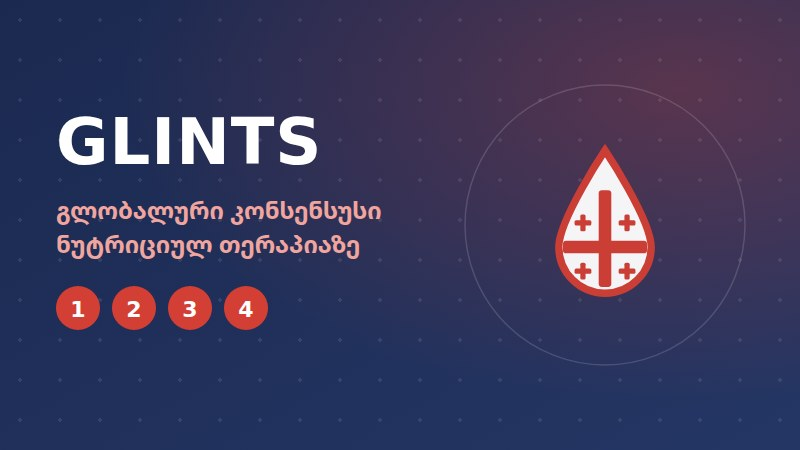
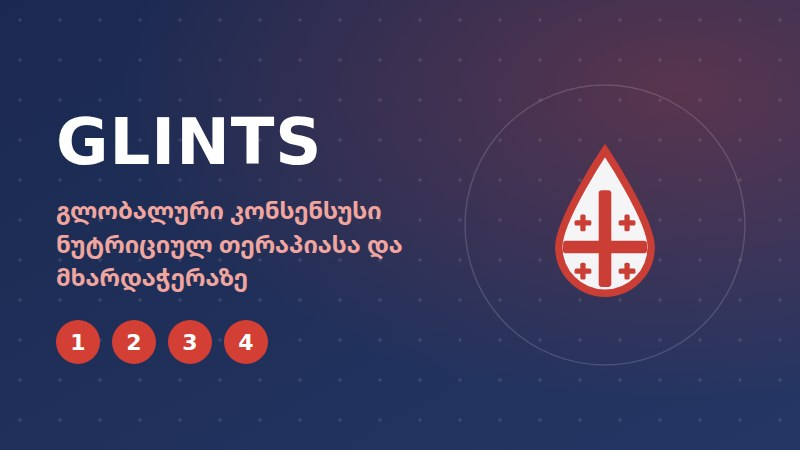
Add files via upload

Changed region(s): [[0.0625, 0.5911, 0.3438, 0.8089], [0.4062, 0.5289, 0.5, 0.5911]]

diff --git a/statiebi.html b/statiebi.html
@@ -90,7 +90,7 @@
 </footer>
 
 <script type="application/json" id="artSeed">
-{"items": [{"date": "2026-09-10", "title": "GSPEN ევროპის კლინიკური კვების საზოგადოების (ESPEN) ბლოკწევრი გახდა", "author": "GSPEN", "summary": "საქართველოს საზოგადოება ოფიციალურად შეუერთდა ESPEN-ს — ჩვენს წევრებს ევროპული საზოგადოების სრული წევრობა შეღავათიანი ტარიფით შეეძლებათ.", "cover": "assets/article-espen.jpg", "body": "მოხარული ვართ გაცნობოთ, რომ ოფიციალურად გაფორმდა ბლოკწევრობის შეთანხმება საქართველოს პარენტერალური, ენტერალური კვებისა და მეტაბოლიზმის საზოგადოებასა (GSPEN) და ევროპის კლინიკური ნუტრიციოლოგიისა და მეტაბოლიზმის საზოგადოებას (ESPEN) შორის.\n\n## რას ნიშნავს ეს?\n\nGSPEN-ის ESPEN-ში გაწევრიანება ქართული სამედიცინო საზოგადოებისთვის უმნიშვნელოვანესი და ისტორიული ნაბიჯია, რადგან დღეს საქართველოში კლინიკური ნუტრიციოლოგია, როგორც დამოუკიდებელი სამედიცინო სფერო, პრაქტიკულად არ არსებობს. წლების განმავლობაში ეს სასიცოცხლოდ მნიშვნელოვანი მიმართულება ქვეყანაში სრულიად აუთვისებელი რჩებოდა და მხოლოდ ახლა დგამს პირველ ნაბიჯებს.\n\nსწორედ ამიტომ ESPEN-ის წევრობა გვაძლევს უნიკალურ შანსს, რომ შევავსოთ არსებული სიცარიელე, მრავალწლიანი ევროპული საერთაშორისო გამოცდილება გადმოვიტანოთ ქართულ კლინიკურ რეალობაში და საქართველოში ამ სფეროს განვითარებას მყარი საფუძველი ჩავუყაროთ.\n\n## რას ნიშნავს ESPEN-ის ბლოკწევრობა?\n\nბლოკწევრობა ESPEN-ის სპეციალური სტატუსია იმ ეროვნული ასოციაციებისთვის, რომლებთანაც ევროპულ საზოგადოებას პირდაპირი შეთანხმება აქვს გაფორმებული. ამ სტატუსის წყალობით, GSPEN-ის თითოეულ წევრს შეუძლია, გახდეს ESPEN-ის სრულუფლებიანი წევრი შეღავათიანი ტარიფით.\n\nრეგისტრაციისთვის იხილეთ [შესაბამისი ბმული](wevroba.html).\n\n## რას იღებს GSPEN-ისა და ESPEN-ის წევრი?\n\n- **საგანმანათლებლო პლატფორმებზე წვდომა:** შემცირებული ტარიფი LLL (Life Long Learning) სერტიფიცირებულ კურსებზე და შეუზღუდავი წვდომა სასწავლო პლატფორმაზე [lllnutrition.com](https://lllnutrition.com) — რაც ESPEN-ის დიპლომის მოპოვების წინაპირობაა.\n- **უახლესი სამეცნიერო ლიტერატურა:** უფასო ონლაინ წვდომა ევროპის წამყვან ჟურნალებზე — Clinical Nutrition და Clinical Nutrition ESPEN.\n- **საერთაშორისო კონგრესები:** შეღავათიანი რეგისტრაცია და მნიშვნელოვანი ფასდაკლება ESPEN-ის ყოველწლიურ კონგრესებზე დასასწრებად.\n- **გრანტები და კვლევები:** ESPEN-ის კვლევით, სასწავლო და სამოგზაურო გრანტებზე განაცხადის შეტანის უფლება.\n- **ექსკლუზიური მასალები:** წვდომა ESPEN-ის ვებინარებზე, გასული კონგრესების ჩანაწერებსა და საზოგადოების სიახლეების ცნობის ფურცელზე.\n- **nutritionDay-ს საერთაშორისო პროექტში ჩართულობა:** შესაძლებლობა, მონაწილეობა მიიღოთ კლინიკური კვების უდიდეს გლობალურ აუდიტში, გამოიყენოთ ქართულ ენაზე უკვე ადაპტირებული კითხვარები და დააკავშიროთ თქვენი კლინიკის მონაცემები ერთიან საერთაშორისო ბაზასთან პაციენტთა გამოსავლების გასაუმჯობესებლად. მეტი ინფორმაციისთვის [იხილეთ ბმული](proeqtebi.html?p=0).\n- **პუბლიკაციების მხარდაჭერა:** ფასდაკლება სამეცნიერო სტატიის გამოქვეყნებაზე ღია წვდომის ჟურნალში Clinical Nutrition Open Science.\n\n## რას შეცვლის ეს ადგილობრივ დონეზე?\n\nჩვენი მთავარი მიზანი ევროპული გამოცდილების ქართულ რეალობად ქცევა და კლინიკური ნუტრიციოლოგიის მიმართულებით ქვეყანაში ერთიანი, მაღალი სტანდარტის დანერგვაა. ამის მისაღწევად GSPEN-ის სახელით დაგეგმილია შემდეგი ინიციატივები:\n\n- **ეროვნული პროტოკოლების შემუშავება:** დავიწყებთ უახლესი საერთაშორისო გაიდლაინების სიღრმისეულ დამუშავებას და საქართველოს კლინიკურ რეალობაზე მორგებას.\n- **მულტიდისციპლინური განათლება (ექიმები და ექთნები):** ვინაიდან პაციენტის ნუტრიციული მართვა გუნდურ მუშაობას მოითხოვს, განვაგრძობთ ადგილობრივი ვებინარების, პრაქტიკული ვორქშოფების და სამუშაო შეხვედრების ორგანიზებას როგორც მოქმედი ექიმებისთვის, ისე ექთნებისთვის, რომელთა როლიც უმნიშვნელოვანესია კვების პროტოკოლების უშუალო აღსრულების პროცესში.\n- **მომავალი თაობის განვითარება:** განსაკუთრებული ყურადღება დაეთმობა სამედიცინო ფაკულტეტის სტუდენტებთან მუშაობას. მათთვის დაიგეგმება სპეციალური საგანმანათლებლო შეხვედრები, რათა მომავალმა კოლეგებმა საუნივერსიტეტო ეტაპიდანვე გაითავისონ კლინიკური ნუტრიციოლოგიის ფუნდამენტური პრინციპები და დაინტერესდნენ ამ მნიშვნელოვანი სფეროთი.\n\n## როგორ გავხდეთ წევრი?\n\nშეღავათიანი ტარიფით ESPEN-ის წევრობა ექსკლუზიურად GSPEN-ის წევრებისთვისაა ხელმისაწვდომი. ერთად ჩავუყაროთ საფუძველი კლინიკური ნუტრიციოლოგიის განვითარებას საქართველოში!\n\nდაინტერესების შემთხვევაში, მოგვწერეთ ელექტრონულ ფოსტაზე: [**pensocietygspen@gmail.com**](mailto:pensocietygspen@gmail.com). ჩვენ მოგაწვდით დეტალურ ინფორმაციას გაწევრიანების ნაბიჯებსა და გადახდის წესზე."}, {"date": "2026-09-11", "title": "როდის უნდა დაიწყოს ნუტრიციული თერაპია? — GLINTS: პირველი გლობალური კონსენსუსი", "author": "სალომე გოგლიძე", "summary": "მსოფლიოს კლინიკური კვების საზოგადოებების პირველი ერთიანი პასუხი კითხვაზე — როდის დავიწყოთ კვებითი ჩარევა.", "cover": "assets/article-glints.jpg", "body": "კლინიკურ პრაქტიკაში ერთ-ერთი ყველაზე ხშირი და, პარადოქსულად, ყველაზე ბუნდოვანი კითხვა ასე ჟღერს: როდის უნდა დავიწყოთ კვებითი ჩარევა? ამ კითხვას ახლა პირველად უპასუხა გლობალურმა კონსენსუსმა — GLINTS (Global Leadership Initiative on Indications to Nutritional Therapy and Support).\n\nინიციატივა 2025 წლის 14 სექტემბერს, პრაღაში, ESPEN-ის კონგრესზე დაიწყო და მასში მსოფლიოს ყველა წამყვანი კლინიკური კვების საზოგადოება მონაწილეობდა: ESPEN (ევროპა), ASPEN (ამერიკა), AuSPEN (ავსტრალაზია), FELANPE (ლათინური ამერიკა), PENSA (აზია) და SASPEN (სამხრეთ აფრიკა). 32 ექსპერტმა მოდიფიცირებული დელფის სამი რაუნდის შედეგად რვა დებულება შეაჯერა — თითოეულმა 85%-ზე მაღალ თანხმობას მიაღწია.\n\n## რატომ იყო ეს საჭირო\n\nჰოსპიტალიზებულ პაციენტებში მალნუტრიციის გავრცელება 35–50%-ს აღწევს და ყველაზე მაღალია ონკოლოგიურ და კრიტიკულ პაციენტებში. nutritionDay-ს გლობალური აუდიტის მონაცემებით (224 221 პაციენტი, 2006–2025), პაციენტების 44% კლინიკაში ყოფნის პერიოდში წონის კლებას აღნიშნავს, 51% კი შეფასების დღეს სრულ ულუფას ვერ ჭამს. შედეგები პირდაპირ აისახება გამოსავალზე: წონის კლება 30-დღიანი სიკვდილობის რისკს 1.69-ჯერ ზრდის, ულუფის მეოთხედზე ნაკლების მიღება — 1.4–3-ჯერ, დაბალი BMI — 1.5-ჯერ.\n\nამის მიუხედავად, კვებითი ჩარევა კლინიკებში ხშირად გვიან იწყება ან საერთოდ არ იწყება — ერთ-ერთი მიზეზი კი სწორედ ის იყო, რომ არ არსებობდა მკაფიო, საერთაშორისოდ შეჯერებული კრიტერიუმები. მნიშვნელოვანი კონტექსტია ისიც, რომ 2025 წელს ჯანმო-მ ICD-11-ში ზრდასრულთა არასრულფასოვანი კვების ცალკე დიაგნოსტიკური კოდი (5B72) დაამტკიცა, რომელიც [GLIM](glim.html)-ის კრიტერიუმებს ეყრდნობა და 2027 წლიდან ამოქმედდება.\n\n## ოთხი ძირითადი ჩვენება\n\nGLINTS-ის მიხედვით, ნუტრიციული თერაპია/მხარდაჭერა ნაჩვენებია ოთხ შემთხვევაში:\n\n1. **დადასტურებული მალნუტრიცია** — [GLIM](glim.html)-ის ან სხვა ვალიდური კრიტერიუმებით (SGA, PG-SGA, MNA) დასმული დიაგნოზი *(თანხმობა 96%)*;\n2. **მალნუტრიციის მაღალი რისკი** — თუ პოპულაციის რისკი უცნობია, გამოიყენება სკრინინგის ინსტრუმენტები; აშკარად მაღალი რისკის ჯგუფებში კი GLIM-ის კრიტერიუმები პირდაპირ, წინასწარი სკრინინგის გარეშეც შეიძლება იქნას გამოყენებული *(85%)*;\n3. **შემცირებული კვება** — ბოლო ერთ კვირაში ჩვეული რაციონის ნახევარი ან ნაკლები, ან ნებისმიერი ხარისხის შემცირება ორ კვირაზე მეტხანს — დაავადების, ანთებითი პასუხის ან მძიმე გასტროინტესტინური სიმპტომების (დისფაგია, გულისრევა, ღებინება, დიარეა) ფონზე *(93%)*;\n4. **ხუთ დღეზე მეტხანს ჭამის შეუძლებლობა** — მაშინაც კი, თუ პაციენტი მანამდე კარგად იკვებებოდა: უკვე 3–5 დღეში იწყება კუნთოვანი მასის კლინიკურად მნიშვნელოვანი კარგვა *(85%)*.\n\n## როდის გადავიდეთ ზონდით ან პარენტერალურ კვებაზე\n\n- **ენტერალური ზონდით კვება** ნაჩვენებია, როცა პერორალური მიღება სავარაუდო ენერგიისა და ნუტრიენტების საჭიროების 50%-ზე ნაკლებს ფარავს და მნიშვნელოვანი გაუმჯობესება მოსალოდნელი არ არის. პერორალური კვება ამ დროსაც მაქსიმალურად უნდა შენარჩუნდეს, სანამ ეს უსაფრთხოა *(87%)*.\n- **პარენტერალური კვება** ნაჩვენებია ნაწლავური უკმარისობის დროს — როცა ნაწლავის ფუნქცია იმ მინიმუმზე დაბალია, რომელიც მაკრონუტრიენტების, წყლისა და ელექტროლიტების ასათვისებლადაა საჭირო *(86%)*.\n- **დამატებითი პარენტერალური კვება** განიხილება, როცა პერორალური და ენტერალური კვება, ოპტიმიზაციის მიუხედავად, ენერგიისა და ცილის საკმარის მიწოდებას ვერ უზრუნველყოფს; დაწყების დრო ინდივიდუალურია და პაციენტის ნუტრიციულ სტატუსზე, რისკსა და დაავადების სიმძიმეზეა დამოკიდებული *(90%)*. მნიშვნელოვანია: ეს არ ნიშნავს რუტინულ ადრეულ დამატებით პარენტერალურ კვებას მწვავე ავადმყოფობის პირველივე დღეებში.\n\n## რას ნიშნავს ეს პრაქტიკაში\n\nპირველად გვაქვს გლობალურად შეჯერებული პასუხი კითხვაზე „როდის დავიწყოთ“. ეს კრიტერიუმები მარტივად დასამახსოვრებელია, ყოველდღიურ კლინიკურ მუშაობაში პირდაპირ გამოსაყენებელი და ნებისმიერი პროფილის განყოფილებას ეხება — თერაპიიდან ქირურგიამდე.\n\nGSPEN-ისთვის ეს დოკუმენტი განსაკუთრებით მნიშვნელოვანია: სწორედ ასეთ საერთაშორისო კონსენსუსებს დავეყრდნობით, როცა ეროვნულ პროტოკოლებზე ვიმუშავებთ — ეს კი [ჩვენი ESPEN-თან თანამშრომლობის](statiebi.html?a=1) ერთ-ერთი მთავარი მიზანია.\n\n*წყარო: [Klek S, Barazzoni R, Blaauw R et al. Global Leadership Initiative on Indications to Nutritional Therapy and Support (GLINTS): a consensus report from the global clinical nutrition community.](https://pubmed.ncbi.nlm.nih.gov/42664568/)*\n\n---\n\n<div style=\"display:flex;align-items:center;gap:16px;margin-top:6px\"><img src=\"assets/team/salome.jpg\" alt=\"სალომე გოგლიძე\" style=\"width:76px;height:76px;border-radius:50%;object-fit:cover;margin:0\"><div style=\"line-height:1.5\"><b>მომზადებულია სალომე გოგლიძის მიერ</b><br><span style=\"color:#8a8f98;font-size:14.5px\">კლინიკური ნუტრიციოლოგი</span></div></div>"}]}
+{"items": [{"date": "2026-09-10", "title": "GSPEN ევროპის კლინიკური კვების საზოგადოების (ESPEN) ბლოკწევრი გახდა", "author": "GSPEN", "summary": "საქართველოს საზოგადოება ოფიციალურად შეუერთდა ESPEN-ს — ჩვენს წევრებს ევროპული საზოგადოების სრული წევრობა შეღავათიანი ტარიფით შეეძლებათ.", "cover": "assets/article-espen.jpg", "body": "მოხარული ვართ გაცნობოთ, რომ ოფიციალურად გაფორმდა ბლოკწევრობის შეთანხმება საქართველოს პარენტერალური, ენტერალური კვებისა და მეტაბოლიზმის საზოგადოებასა (GSPEN) და ევროპის კლინიკური ნუტრიციოლოგიისა და მეტაბოლიზმის საზოგადოებას (ESPEN) შორის.\n\n## რას ნიშნავს ეს?\n\nGSPEN-ის ESPEN-ში გაწევრიანება ქართული სამედიცინო საზოგადოებისთვის უმნიშვნელოვანესი და ისტორიული ნაბიჯია, რადგან დღეს საქართველოში კლინიკური ნუტრიციოლოგია, როგორც დამოუკიდებელი სამედიცინო სფერო, პრაქტიკულად არ არსებობს. წლების განმავლობაში ეს სასიცოცხლოდ მნიშვნელოვანი მიმართულება ქვეყანაში სრულიად აუთვისებელი რჩებოდა და მხოლოდ ახლა დგამს პირველ ნაბიჯებს.\n\nსწორედ ამიტომ ESPEN-ის წევრობა გვაძლევს უნიკალურ შანსს, რომ შევავსოთ არსებული სიცარიელე, მრავალწლიანი ევროპული საერთაშორისო გამოცდილება გადმოვიტანოთ ქართულ კლინიკურ რეალობაში და საქართველოში ამ სფეროს განვითარებას მყარი საფუძველი ჩავუყაროთ.\n\n## რას ნიშნავს ESPEN-ის ბლოკწევრობა?\n\nბლოკწევრობა ESPEN-ის სპეციალური სტატუსია იმ ეროვნული ასოციაციებისთვის, რომლებთანაც ევროპულ საზოგადოებას პირდაპირი შეთანხმება აქვს გაფორმებული. ამ სტატუსის წყალობით, GSPEN-ის თითოეულ წევრს შეუძლია, გახდეს ESPEN-ის სრულუფლებიანი წევრი შეღავათიანი ტარიფით.\n\nრეგისტრაციისთვის იხილეთ [შესაბამისი ბმული](wevroba.html).\n\n## რას იღებს GSPEN-ისა და ESPEN-ის წევრი?\n\n- **საგანმანათლებლო პლატფორმებზე წვდომა:** შემცირებული ტარიფი LLL (Life Long Learning) სერტიფიცირებულ კურსებზე და შეუზღუდავი წვდომა სასწავლო პლატფორმაზე [lllnutrition.com](https://lllnutrition.com) — რაც ESPEN-ის დიპლომის მოპოვების წინაპირობაა.\n- **უახლესი სამეცნიერო ლიტერატურა:** უფასო ონლაინ წვდომა ევროპის წამყვან ჟურნალებზე — Clinical Nutrition და Clinical Nutrition ESPEN.\n- **საერთაშორისო კონგრესები:** შეღავათიანი რეგისტრაცია და მნიშვნელოვანი ფასდაკლება ESPEN-ის ყოველწლიურ კონგრესებზე დასასწრებად.\n- **გრანტები და კვლევები:** ESPEN-ის კვლევით, სასწავლო და სამოგზაურო გრანტებზე განაცხადის შეტანის უფლება.\n- **ექსკლუზიური მასალები:** წვდომა ESPEN-ის ვებინარებზე, გასული კონგრესების ჩანაწერებსა და საზოგადოების სიახლეების ცნობის ფურცელზე.\n- **nutritionDay-ს საერთაშორისო პროექტში ჩართულობა:** შესაძლებლობა, მონაწილეობა მიიღოთ კლინიკური კვების უდიდეს გლობალურ აუდიტში, გამოიყენოთ ქართულ ენაზე უკვე ადაპტირებული კითხვარები და დააკავშიროთ თქვენი კლინიკის მონაცემები ერთიან საერთაშორისო ბაზასთან პაციენტთა გამოსავლების გასაუმჯობესებლად. მეტი ინფორმაციისთვის [იხილეთ ბმული](proeqtebi.html?p=0).\n- **პუბლიკაციების მხარდაჭერა:** ფასდაკლება სამეცნიერო სტატიის გამოქვეყნებაზე ღია წვდომის ჟურნალში Clinical Nutrition Open Science.\n\n## რას შეცვლის ეს ადგილობრივ დონეზე?\n\nჩვენი მთავარი მიზანი ევროპული გამოცდილების ქართულ რეალობად ქცევა და კლინიკური ნუტრიციოლოგიის მიმართულებით ქვეყანაში ერთიანი, მაღალი სტანდარტის დანერგვაა. ამის მისაღწევად GSPEN-ის სახელით დაგეგმილია შემდეგი ინიციატივები:\n\n- **ეროვნული პროტოკოლების შემუშავება:** დავიწყებთ უახლესი საერთაშორისო გაიდლაინების სიღრმისეულ დამუშავებას და საქართველოს კლინიკურ რეალობაზე მორგებას.\n- **მულტიდისციპლინური განათლება (ექიმები და ექთნები):** ვინაიდან პაციენტის ნუტრიციული მართვა გუნდურ მუშაობას მოითხოვს, განვაგრძობთ ადგილობრივი ვებინარების, პრაქტიკული ვორქშოფების და სამუშაო შეხვედრების ორგანიზებას როგორც მოქმედი ექიმებისთვის, ისე ექთნებისთვის, რომელთა როლიც უმნიშვნელოვანესია კვების პროტოკოლების უშუალო აღსრულების პროცესში.\n- **მომავალი თაობის განვითარება:** განსაკუთრებული ყურადღება დაეთმობა სამედიცინო ფაკულტეტის სტუდენტებთან მუშაობას. მათთვის დაიგეგმება სპეციალური საგანმანათლებლო შეხვედრები, რათა მომავალმა კოლეგებმა საუნივერსიტეტო ეტაპიდანვე გაითავისონ კლინიკური ნუტრიციოლოგიის ფუნდამენტური პრინციპები და დაინტერესდნენ ამ მნიშვნელოვანი სფეროთი.\n\n## როგორ გავხდეთ წევრი?\n\nშეღავათიანი ტარიფით ESPEN-ის წევრობა ექსკლუზიურად GSPEN-ის წევრებისთვისაა ხელმისაწვდომი. ერთად ჩავუყაროთ საფუძველი კლინიკური ნუტრიციოლოგიის განვითარებას საქართველოში!\n\nდაინტერესების შემთხვევაში, მოგვწერეთ ელექტრონულ ფოსტაზე: [**pensocietygspen@gmail.com**](mailto:pensocietygspen@gmail.com). ჩვენ მოგაწვდით დეტალურ ინფორმაციას გაწევრიანების ნაბიჯებსა და გადახდის წესზე."}, {"date": "2026-09-11", "title": "როდის უნდა დაიწყოს ნუტრიციული თერაპია და მხარდაჭერა? — GLINTS: პირველი გლობალური კონსენსუსი", "author": "სალომე გოგლიძე", "summary": "მსოფლიოს კლინიკური კვების საზოგადოებების პირველი ერთიანი პასუხი კითხვაზე — როდის დავიწყოთ კვებითი ჩარევა.", "cover": "assets/article-glints.jpg", "body": "კლინიკურ პრაქტიკაში ერთ-ერთი ყველაზე ხშირი და, პარადოქსულად, ყველაზე ბუნდოვანი კითხვა ასე ჟღერს: როდის უნდა დავიწყოთ კვებითი ჩარევა? ამ კითხვას ახლა პირველად უპასუხა გლობალურმა კონსენსუსმა — GLINTS (Global Leadership Initiative on Indications to Nutritional Therapy and Support).\n\nინიციატივა 2025 წლის 14 სექტემბერს, პრაღაში, ESPEN-ის კონგრესზე დაიწყო და მასში მსოფლიოს ყველა წამყვანი კლინიკური კვების საზოგადოება მონაწილეობდა: ESPEN (ევროპა), ASPEN (ამერიკა), AuSPEN (ავსტრალაზია), FELANPE (ლათინური ამერიკა), PENSA (აზია) და SASPEN (სამხრეთ აფრიკა). 32 ექსპერტმა მოდიფიცირებული დელფის სამი რაუნდის შედეგად რვა დებულება შეაჯერა — თითოეულმა 85%-ზე მაღალ თანხმობას მიაღწია.\n\n## რატომ იყო ეს საჭირო\n\nჰოსპიტალიზებულ პაციენტებში მალნუტრიციის გავრცელება 35–50%-ს აღწევს და ყველაზე მაღალია ონკოლოგიურ და კრიტიკულ პაციენტებში. nutritionDay-ს გლობალური აუდიტის მონაცემებით (224 221 პაციენტი, 2006–2025), პაციენტების 44% კლინიკაში ყოფნის პერიოდში წონის კლებას აღნიშნავს, 51% კი შეფასების დღეს სრულ ულუფას ვერ ჭამს. შედეგები პირდაპირ აისახება გამოსავალზე: წონის კლება 30-დღიანი სიკვდილობის რისკს 1.69-ჯერ ზრდის, ულუფის მეოთხედზე ნაკლების მიღება — 1.4–3-ჯერ, დაბალი BMI — 1.5-ჯერ.\n\nამის მიუხედავად, კვებითი ჩარევა კლინიკებში ხშირად გვიან იწყება ან საერთოდ არ იწყება — ერთ-ერთი მიზეზი კი სწორედ ის იყო, რომ არ არსებობდა მკაფიო, საერთაშორისოდ შეჯერებული კრიტერიუმები. მნიშვნელოვანი კონტექსტია ისიც, რომ 2025 წელს ჯანმო-მ ICD-11-ში ზრდასრულთა არასრულფასოვანი კვების ცალკე დიაგნოსტიკური კოდი (5B72) დაამტკიცა, რომელიც [GLIM](glim.html)-ის კრიტერიუმებს ეყრდნობა და 2027 წლიდან ამოქმედდება.\n\n## ოთხი ძირითადი ჩვენება\n\nGLINTS-ის მიხედვით, ნუტრიციული თერაპია/მხარდაჭერა ნაჩვენებია ოთხ შემთხვევაში:\n\n1. **დადასტურებული მალნუტრიცია** — [GLIM](glim.html)-ის ან სხვა ვალიდური კრიტერიუმებით (SGA, PG-SGA, MNA) დასმული დიაგნოზი *(თანხმობა 96%)*;\n2. **მალნუტრიციის მაღალი რისკი** — თუ პოპულაციის რისკი უცნობია, გამოიყენება სკრინინგის ინსტრუმენტები; აშკარად მაღალი რისკის ჯგუფებში კი GLIM-ის კრიტერიუმები პირდაპირ, წინასწარი სკრინინგის გარეშეც შეიძლება იქნას გამოყენებული *(85%)*;\n3. **შემცირებული კვება** — ბოლო ერთ კვირაში ჩვეული რაციონის ნახევარი ან ნაკლები, ან ნებისმიერი ხარისხის შემცირება ორ კვირაზე მეტხანს — დაავადების, ანთებითი პასუხის ან მძიმე გასტროინტესტინური სიმპტომების (დისფაგია, გულისრევა, ღებინება, დიარეა) ფონზე *(93%)*;\n4. **ხუთ დღეზე მეტხანს ჭამის შეუძლებლობა** — მაშინაც კი, თუ პაციენტი მანამდე კარგად იკვებებოდა: უკვე 3–5 დღეში იწყება კუნთოვანი მასის კლინიკურად მნიშვნელოვანი კარგვა *(85%)*.\n\n## როდის გადავიდეთ ზონდით ან პარენტერალურ კვებაზე\n\n- **ენტერალური ზონდით კვება** ნაჩვენებია, როცა პერორალური მიღება სავარაუდო ენერგიისა და ნუტრიენტების საჭიროების 50%-ზე ნაკლებს ფარავს და მნიშვნელოვანი გაუმჯობესება მოსალოდნელი არ არის. პერორალური კვება ამ დროსაც მაქსიმალურად უნდა შენარჩუნდეს, სანამ ეს უსაფრთხოა *(87%)*.\n- **პარენტერალური კვება** ნაჩვენებია ნაწლავური უკმარისობის დროს — როცა ნაწლავის ფუნქცია იმ მინიმუმზე დაბალია, რომელიც მაკრონუტრიენტების, წყლისა და ელექტროლიტების ასათვისებლადაა საჭირო *(86%)*.\n- **დამატებითი პარენტერალური კვება** განიხილება, როცა პერორალური და ენტერალური კვება, ოპტიმიზაციის მიუხედავად, ენერგიისა და ცილის საკმარის მიწოდებას ვერ უზრუნველყოფს; დაწყების დრო ინდივიდუალურია და პაციენტის ნუტრიციულ სტატუსზე, რისკსა და დაავადების სიმძიმეზეა დამოკიდებული *(90%)*. მნიშვნელოვანია: ეს არ ნიშნავს რუტინულ ადრეულ დამატებით პარენტერალურ კვებას მწვავე ავადმყოფობის პირველივე დღეებში.\n\n## რას ნიშნავს ეს პრაქტიკაში\n\nპირველად გვაქვს გლობალურად შეჯერებული პასუხი კითხვაზე „როდის დავიწყოთ“. ეს კრიტერიუმები მარტივად დასამახსოვრებელია, ყოველდღიურ კლინიკურ მუშაობაში პირდაპირ გამოსაყენებელი და ნებისმიერი პროფილის განყოფილებას ეხება — თერაპიიდან ქირურგიამდე.\n\nGSPEN-ისთვის ეს დოკუმენტი განსაკუთრებით მნიშვნელოვანია: სწორედ ასეთ საერთაშორისო კონსენსუსებს დავეყრდნობით, როცა ეროვნულ პროტოკოლებზე ვიმუშავებთ — ეს კი [ჩვენი ESPEN-თან თანამშრომლობის](statiebi.html?a=1) ერთ-ერთი მთავარი მიზანია.\n\n*წყარო: [Klek S, Barazzoni R, Blaauw R et al. Global Leadership Initiative on Indications to Nutritional Therapy and Support (GLINTS): a consensus report from the global clinical nutrition community.](https://pubmed.ncbi.nlm.nih.gov/42664568/)*\n\n---\n\n<div style=\"display:flex;align-items:center;gap:16px;margin-top:6px\"><img src=\"assets/team/salome.jpg\" alt=\"სალომე გოგლიძე\" style=\"width:76px;height:76px;border-radius:50%;object-fit:cover;margin:0\"><div style=\"line-height:1.5\"><b>მომზადებულია სალომე გოგლიძის მიერ</b><br><span style=\"color:#8a8f98;font-size:14.5px\">კლინიკური ნუტრიციოლოგი</span></div></div>"}]}
 </script>
 <script src="https://cdnjs.cloudflare.com/ajax/libs/marked/12.0.2/marked.min.js"></script>
 <script src="assets/site.js"></script>

diff --git a/index.html b/index.html
@@ -218,7 +218,7 @@
         <text x="320" y="74" font-size="16" fill="#f5c451" text-anchor="middle" opacity="0.9">★</text><text x="376" y="89" font-size="16" fill="#f5c451" text-anchor="middle" opacity="0.9">★</text><text x="417" y="130" font-size="16" fill="#f5c451" text-anchor="middle" opacity="0.9">★</text><text x="432" y="186" font-size="16" fill="#f5c451" text-anchor="middle" opacity="0.9">★</text><text x="417" y="242" font-size="16" fill="#f5c451" text-anchor="middle" opacity="0.9">★</text><text x="376" y="283" font-size="16" fill="#f5c451" text-anchor="middle" opacity="0.9">★</text><text x="320" y="298" font-size="16" fill="#f5c451" text-anchor="middle" opacity="0.9">★</text><text x="264" y="283" font-size="16" fill="#f5c451" text-anchor="middle" opacity="0.9">★</text><text x="223" y="242" font-size="16" fill="#f5c451" text-anchor="middle" opacity="0.9">★</text><text x="208" y="186" font-size="16" fill="#f5c451" text-anchor="middle" opacity="0.9">★</text><text x="223" y="130" font-size="16" fill="#f5c451" text-anchor="middle" opacity="0.9">★</text><text x="264" y="89" font-size="16" fill="#f5c451" text-anchor="middle" opacity="0.9">★</text>
         <g transform="translate(276,124) scale(0.74)"><path d="M60 8 C60 8 104 74 104 100 A44 44 0 1 1 16 100 C16 74 60 8 60 8 Z" fill="#ffffff" stroke="#d33f34" stroke-width="7"/><g fill="#d33f34"><rect x="55" y="52" width="10" height="84" rx="4"/><rect x="18" y="95" width="84" height="10" rx="4"/></g></g>
       </svg><span class="badge"><span style="display:inline-block;width:7px;height:7px;border-radius:50%;background:var(--red);margin-right:6px"></span>სიახლე</span></div><div class="mc-body"><div class="date">10 სექტემბერი, 2026</div><h4>GSPEN ევროპის კლინიკური კვების საზოგადოების (ESPEN) ბლოკწევრი გახდა</h4><p>ჩვენს წევრებს ESPEN-ის სრული წევრობა შეღავათიანი ტარიფით შეეძლებათ — გაიგე, რას ნიშნავს ეს შენთვის →</p></div></a>
-      <a class="media-card" href="statiebi.html?a=0"><div class="thumb"><img src="assets/article-glints.jpg" alt="" loading="lazy"><span class="badge">სტატია</span></div><div class="mc-body"><div class="date">11 სექტემბერი, 2026</div><h4>როდის უნდა დაიწყოს ნუტრიციული თერაპია? — GLINTS: პირველი გლობალური კონსენსუსი</h4><p>მსოფლიოს კლინიკური კვების საზოგადოებების პირველი ერთიანი პასუხი კითხვაზე — როდის დავიწყოთ კვებითი ჩარევა →</p></div></a>
+      <a class="media-card" href="statiebi.html?a=0"><div class="thumb"><img src="assets/article-glints.jpg" alt="" loading="lazy"><span class="badge">სტატია</span></div><div class="mc-body"><div class="date">11 სექტემბერი, 2026</div><h4>როდის უნდა დაიწყოს ნუტრიციული თერაპია და მხარდაჭერა? — GLINTS: პირველი გლობალური კონსენსუსი</h4><p>მსოფლიოს კლინიკური კვების საზოგადოებების პირველი ერთიანი პასუხი კითხვაზე — როდის დავიწყოთ კვებითი ჩარევა →</p></div></a>
       <a class="media-card" href="proeqtebi.html?p=0"><div class="thumb"><svg viewBox="0 0 640 360" preserveAspectRatio="xMidYMid slice" style="position:absolute;inset:0;width:100%;height:100%">
         <defs>
           <linearGradient id="pjbg" x1="0" y1="0" x2="1" y2="1"><stop offset="0" stop-color="#1b2950"/><stop offset="1" stop-color="#243664"/></linearGradient>

diff --git a/assets/i18n.js b/assets/i18n.js
@@ -663,6 +663,7 @@ var M = {
 "რეფლუქსის დროს რა ვადით უნდა ამოვიღოთ სავარაუდო ტრიგერები და როგორ დავაბრუნოთ ისინი რაციონში ზედმეტი შეზღუდვის გარეშე?":"In reflux, how long should suspected triggers be removed, and how can they be reintroduced without over-restricting the diet?"
 ,
 /* ===== GLINTS article ===== */
+"როდის უნდა დაიწყოს ნუტრიციული თერაპია და მხარდაჭერა? — GLINTS: პირველი გლობალური კონსენსუსი":"When should nutritional therapy and support start? — GLINTS: the first global consensus",
 "მსოფლიოს კლინიკური კვების საზოგადოებების პირველი ერთიანი პასუხი კითხვაზე — როდის დავიწყოთ კვებითი ჩარევა →":"The first joint answer of the world's clinical nutrition societies to the question — when to start nutritional intervention →",
 "როდის უნდა დაიწყოს ნუტრიციული თერაპია? — GLINTS: პირველი გლობალური კონსენსუსი":"When should nutritional therapy start? — GLINTS: the first global consensus",
 "მსოფლიოს კლინიკური კვების საზოგადოებების პირველი ერთიანი პასუხი კითხვაზე — როდის დავიწყოთ კვებითი ჩარევა.":"The first joint answer of the world's clinical nutrition societies to the question — when to start nutritional intervention.",
